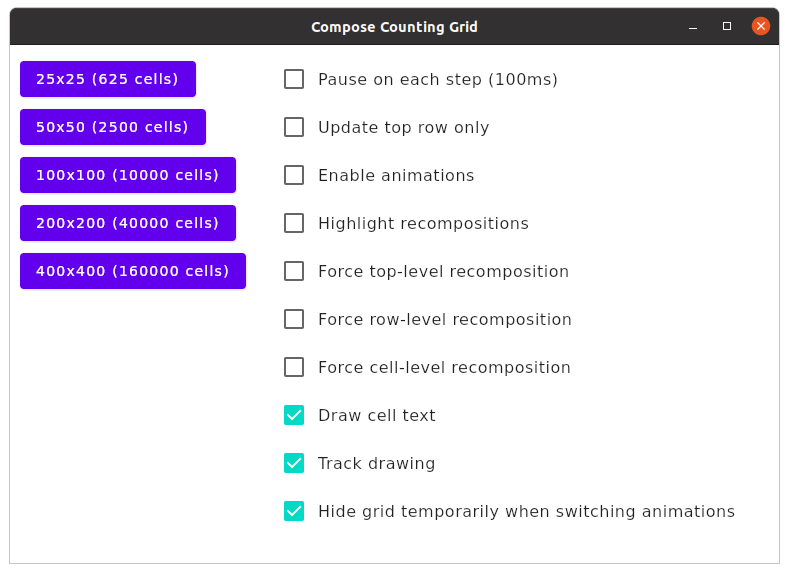
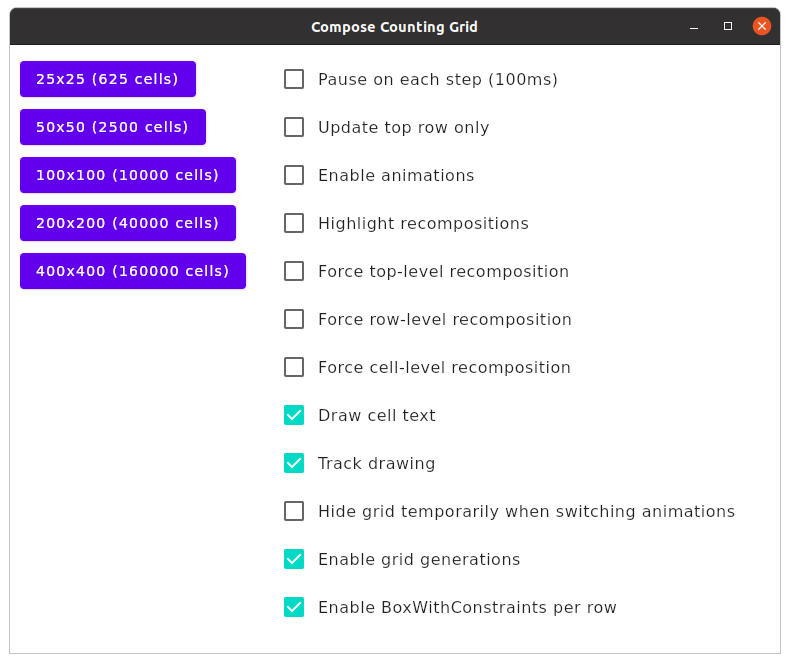
Add options to speed up animation switching, update timing results
New options:
* Enable grid generations
* Enable BoxWithConstraints per row

diff --git a/src/commonMain/kotlin/Views.kt b/src/commonMain/kotlin/Views.kt
@@ -6,6 +6,7 @@ import androidx.compose.animation.with
 import androidx.compose.foundation.border
 import androidx.compose.foundation.layout.Arrangement
 import androidx.compose.foundation.layout.Box
+import androidx.compose.foundation.layout.BoxWithConstraints
 import androidx.compose.foundation.layout.Column
 import androidx.compose.foundation.layout.Row
 import androidx.compose.foundation.layout.Spacer
@@ -20,6 +21,7 @@ import androidx.compose.runtime.LaunchedEffect
 import androidx.compose.runtime.MutableState
 import androidx.compose.runtime.State
 import androidx.compose.runtime.getValue
+import androidx.compose.runtime.key
 import androidx.compose.runtime.mutableStateOf
 import androidx.compose.runtime.remember
 import androidx.compose.runtime.rememberCoroutineScope
@@ -109,12 +111,14 @@ private fun GridScene(selectedGrid: MutableState<GridModel?>) {
         )
 
         if (showGrid) {
-            Grid(
-                grid,
-                topLevelRecompositionTrigger,
-                rowLevelRecompositionTrigger,
-                cellLevelRecompositionTrigger
-            )
+            key(Configuration.gridGenerationId) {
+                Grid(
+                    grid,
+                    topLevelRecompositionTrigger,
+                    rowLevelRecompositionTrigger,
+                    cellLevelRecompositionTrigger
+                )
+            }
         }
     }
 }
@@ -191,14 +195,27 @@ private fun Grid(
     Box(Modifier.recomposeHighlighter().border(1.dp, color = Color.LightGray)) {
         Column {
             for (row in grid.rows) {
-                Row(modifier = Modifier.recomposeHighlighter()) {
-                    sinkHole(rowLevelRecompositionTrigger.value)
-                    for (cell in row.cells) {
-                        Cell(cell, cellLevelRecompositionTrigger)
+                ConditionalBoxWithConstraints {
+                    Row(modifier = Modifier.recomposeHighlighter()) {
+                        sinkHole(rowLevelRecompositionTrigger.value)
+                        for (cell in row.cells) {
+                            Cell(cell, cellLevelRecompositionTrigger)
+                        }
                     }
                 }
             }
         }
+    }
+}
+
+@Composable
+private fun ConditionalBoxWithConstraints(content: @Composable () -> Unit) {
+    if (Configuration.boxWithConstraintsPerRowEnabled.value) {
+        BoxWithConstraints {
+            content()
+        }
+    } else {
+        content()
     }
 }
 

diff --git a/src/commonMain/kotlin/Configuration.kt b/src/commonMain/kotlin/Configuration.kt
@@ -1,4 +1,6 @@
+import androidx.compose.runtime.getValue
 import androidx.compose.runtime.mutableStateOf
+import androidx.compose.runtime.setValue
 
 object Configuration {
     class Element(
@@ -19,9 +21,17 @@ object Configuration {
         }
     }
 
+    var gridGenerationId by mutableStateOf(0)
+
     val pauseOnEachStep = Element("Pause on each step (100ms)", false)
     val updateTopRowOnlyEnabled = Element("Update top row only", false)
-    val animationsEnabled = Element("Enable animations", false)
+    private val gridGenerationsEnabled = Element("Enable grid generations", true)
+    val animationsEnabled = Element("Enable animations", false) { element, newState ->
+        logAction(element, newState)
+        if (gridGenerationsEnabled.value) {
+            gridGenerationId++
+        }
+    }
     val recomposeHighlightingEnabled = Element("Highlight recompositions", false)
     val topLevelRecompositionForced = Element("Force top-level recomposition", false)
     val rowLevelRecompositionForced = Element("Force row-level recomposition", false)
@@ -31,7 +41,8 @@ object Configuration {
         logAction(element, newState)
         drawSeries = if (newState) DrawSeries() else null
     }
-    val gridHidingEnabled = Element("Hide grid temporarily when switching animations", true)
+    val gridHidingEnabled = Element("Hide grid temporarily when switching animations", false)
+    val boxWithConstraintsPerRowEnabled = Element("Enable BoxWithConstraints per row", true)
 
     val elements = listOf(
         pauseOnEachStep,
@@ -43,7 +54,9 @@ object Configuration {
         cellLevelRecompositionForced,
         cellTextDrawingEnabled,
         trackDrawingEnabled,
-        gridHidingEnabled
+        gridHidingEnabled,
+        gridGenerationsEnabled,
+        boxWithConstraintsPerRowEnabled
     )
 
     private fun logAction(element: Element, newState: Boolean) {

diff --git a/docs/SwitchingAnimationVariants.md b/docs/SwitchingAnimationVariants.md
@@ -1,48 +1,19 @@
 ### Switching between grids with and without animations enabled
 
-#### (A) Create 50x50 (2500 cells) grid by selecting it in the initial window
+#### Timing Results
 
-```
-2022-09-10T21:47:31.616890Z – Grid -> null
-2022-09-10T21:47:33.607908Z – Enable animations -> OFF
-2022-09-10T21:47:39.865347Z – Grid -> 50x50 (2500 cells)
-2022-09-10T21:47:41.031984Z – 5000 cells drawn in 333.62ms from 2022-09-10T21:47:39.685506Z to 2022-09-10T21:47:40.019126Z
-2022-09-10T21:47:49.491669Z – Grid -> null
-2022-09-10T21:47:53.619966Z – Enable animations -> ON 
-2022-09-10T21:47:57.813194Z – Grid -> 50x50 (2500 cells)
-2022-09-10T21:48:01.281118Z – 5000 cells drawn in 2.793244s from 2022-09-10T21:47:57.453426Z to 2022-09-10T21:48:00.246670Z
-```
+Duration of cell drawing operations from switching _Enable animations_ until the next idle period of 1 second or more.
 
-#### (B) Switch animations on 50x50 (2500 cells) grid, hiding the grid temporarily
+| Enable grid generations | BoxWithConstraints per row | Hide grid temporarily | Animations -> ON | Animations -> OFF |
+|:-----------------------:|:--------------------------:|:---------------------:|-----------------:|------------------:|
+|                         |                            |                       |           19.1 s |            10.4 s |
+|            ✅            |                            |                       |            4.5 s |             1.8 s |
+|                         |                            |           ✅           |            3.7 s |             1.3 s |
+|            ✅            |                            |           ✅           |            3.7 s |             1.3 s |
+|                         |             ✅              |                       |            2.3 s |             1.7 s |
+|            ✅            |             ✅              |                       |            2.3 s |             1.6 s |
 
-```
-2022-09-10T21:48:37.975564Z – Enable animations -> OFF
-2022-09-10T21:48:40.319497Z – 37500 cells drawn in 1.369423s from 2022-09-10T21:48:37.938119Z to 2022-09-10T21:48:39.307542Z
-2022-09-10T21:48:44.573528Z – Enable animations -> ON 
-2022-09-10T21:48:49.491237Z – 7500 cells drawn in 3.967818s from 2022-09-10T21:48:44.498855Z to 2022-09-10T21:48:48.466673Z
-```
-
-#### (C) Switch animations on 50x50 (2500 cells) grid, without hiding the grid temporarily
-
-```
-2022-09-10T21:49:39.871883Z – Enable animations -> OFF
-2022-09-10T21:49:51.419328Z – 37500 cells drawn in 10.536078s from 2022-09-10T21:49:39.831093Z to 2022-09-10T21:49:50.367171Z
-2022-09-10T21:49:55.901524Z – Enable animations -> ON 
-2022-09-10T21:50:14.673802Z – 32500 cells drawn in 17.810506s from 2022-09-10T21:49:55.810575Z to 2022-09-10T21:50:13.621081Z
-```
-
-#### Profiling
-
-* When switching animations while _not_ hiding the `Grid`, the majority of time is spent in slot table operations:
-    * androidx.compose.runtime.CompositionImpl.lambda 'fastForEach' in applyChangesInLocked()
-        * androidx.compose.runtime.ComposerImpl$recordInsert$2.invoke(Object, Object, Object)
-            * androidx.compose.runtime.ComposerImpl$recordInsert$2.invoke(Applier, SlotWriter, RememberManager)
-                * androidx.compose.runtime.SlotWriter.moveFrom(SlotTable, int)
-        * androidx.compose.runtime.ComposerKt$removeCurrentGroupInstance$1.invoke(Object, Object, Object)
-            * androidx.compose.runtime.ComposerKt$removeCurrentGroupInstance$1.invoke(Applier, SlotWriter,
-              RememberManager)
-                * androidx.compose.runtime.ComposerKt.removeCurrentGroup(SlotWriter, RememberManager)
-
+> NOTE: In each case, measurements were taken from the last switching activity.
 
 #### Full log
 
@@ -56,59 +27,112 @@ These actions cause drawing operations:
 
 > Because the entire UI is drawn on each frame, subtle animations, hover indicators, can cause thousands of cell drawing operations. Ripple animations cause a multiple of that.
 
-This is the complete log file, from which the above data has been extracted:
+These are the complete log files, from which the above data has been extracted:
 
 ```
-2022-09-10T21:46:14.983788Z – Pause on each step (100ms) -> OFF
-2022-09-10T21:46:14.987241Z – Update top row only -> OFF
-2022-09-10T21:46:14.987344Z – Enable animations -> OFF
-2022-09-10T21:46:14.987513Z – Highlight recompositions -> OFF
-2022-09-10T21:46:14.987607Z – Force top-level recomposition -> OFF
-2022-09-10T21:46:14.987709Z – Force row-level recomposition -> OFF
-2022-09-10T21:46:14.987797Z – Force cell-level recomposition -> OFF
-2022-09-10T21:46:14.987934Z – Draw cell text -> ON 
-2022-09-10T21:46:14.988339Z – Track drawing -> ON 
-2022-09-10T21:46:14.991622Z – Hide grid temporarily when switching animations -> ON 
-2022-09-10T21:46:15.271789Z – Grid -> null
-2022-09-10T21:46:45.155424Z – Grid -> 50x50 (2500 cells)
-2022-09-10T21:46:46.369431Z – 5000 cells drawn in 533.05ms from 2022-09-10T21:46:44.813553Z to 2022-09-10T21:46:45.346603Z
-2022-09-10T21:46:52.864318Z – 12500 cells drawn in 138.692ms from 2022-09-10T21:46:51.700311Z to 2022-09-10T21:46:51.839003Z
-2022-09-10T21:46:58.786203Z – Grid -> null
-2022-09-10T21:46:59.590604Z – 2500 cells drawn in 15.476ms from 2022-09-10T21:46:58.497732Z to 2022-09-10T21:46:58.513208Z
-2022-09-10T21:47:06.144643Z – Enable animations -> ON 
-2022-09-10T21:47:13.033987Z – Grid -> 50x50 (2500 cells)
-2022-09-10T21:47:16.817249Z – 5000 cells drawn in 3.096053s from 2022-09-10T21:47:12.664521Z to 2022-09-10T21:47:15.760574Z
-2022-09-10T21:47:31.616890Z – Grid -> null
-2022-09-10T21:47:31.918087Z – 12500 cells drawn in 992.977ms from 2022-09-10T21:47:29.891993Z to 2022-09-10T21:47:30.884970Z
-2022-09-10T21:47:33.607908Z – Enable animations -> OFF
-2022-09-10T21:47:39.865347Z – Grid -> 50x50 (2500 cells)
-2022-09-10T21:47:41.031984Z – 5000 cells drawn in 333.62ms from 2022-09-10T21:47:39.685506Z to 2022-09-10T21:47:40.019126Z
-2022-09-10T21:47:46.888147Z – 15000 cells drawn in 132.002ms from 2022-09-10T21:47:45.741427Z to 2022-09-10T21:47:45.873429Z
-2022-09-10T21:47:49.491669Z – Grid -> null
-2022-09-10T21:47:50.293995Z – 2500 cells drawn in 20.797ms from 2022-09-10T21:47:49.241834Z to 2022-09-10T21:47:49.262631Z
-2022-09-10T21:47:53.619966Z – Enable animations -> ON 
-2022-09-10T21:47:57.813194Z – Grid -> 50x50 (2500 cells)
-2022-09-10T21:48:01.281118Z – 5000 cells drawn in 2.793244s from 2022-09-10T21:47:57.453426Z to 2022-09-10T21:48:00.246670Z
-2022-09-10T21:48:14.106020Z – 42500 cells drawn in 1.957566s from 2022-09-10T21:48:11.072607Z to 2022-09-10T21:48:13.030173Z
-2022-09-10T21:48:19.572855Z – 2500 cells drawn in 12.409ms from 2022-09-10T21:48:18.537180Z to 2022-09-10T21:48:18.549589Z
-2022-09-10T21:48:19.720524Z – Enable animations -> OFF
-2022-09-10T21:48:22.093751Z – 7500 cells drawn in 1.408573s from 2022-09-10T21:48:19.673952Z to 2022-09-10T21:48:21.082525Z
-2022-09-10T21:48:29.746544Z – Enable animations -> ON 
-2022-09-10T21:48:34.910817Z – 27500 cells drawn in 4.182232s from 2022-09-10T21:48:29.691941Z to 2022-09-10T21:48:33.874173Z
-2022-09-10T21:48:37.975564Z – Enable animations -> OFF
-2022-09-10T21:48:40.319497Z – 37500 cells drawn in 1.369423s from 2022-09-10T21:48:37.938119Z to 2022-09-10T21:48:39.307542Z
-2022-09-10T21:48:44.573528Z – Enable animations -> ON 
-2022-09-10T21:48:49.491237Z – 7500 cells drawn in 3.967818s from 2022-09-10T21:48:44.498855Z to 2022-09-10T21:48:48.466673Z
-2022-09-10T21:48:54.142785Z – 5000 cells drawn in 59.681ms from 2022-09-10T21:48:53.038091Z to 2022-09-10T21:48:53.097772Z
-2022-09-10T21:48:55.179124Z – Hide grid temporarily when switching animations -> OFF
-2022-09-10T21:48:57.413539Z – 42500 cells drawn in 1.877356s from 2022-09-10T21:48:54.453755Z to 2022-09-10T21:48:56.331111Z
-2022-09-10T21:49:03.842115Z – Enable animations -> OFF
-2022-09-10T21:49:15.113693Z – 40000 cells drawn in 10.263847s from 2022-09-10T21:49:03.800329Z to 2022-09-10T21:49:14.064176Z
-2022-09-10T21:49:19.170576Z – Enable animations -> ON 
-2022-09-10T21:49:37.700329Z – 30000 cells drawn in 17.576870s from 2022-09-10T21:49:19.080698Z to 2022-09-10T21:49:36.657568Z
-2022-09-10T21:49:39.871883Z – Enable animations -> OFF
-2022-09-10T21:49:51.419328Z – 37500 cells drawn in 10.536078s from 2022-09-10T21:49:39.831093Z to 2022-09-10T21:49:50.367171Z
-2022-09-10T21:49:55.901524Z – Enable animations -> ON 
-2022-09-10T21:50:14.673802Z – 32500 cells drawn in 17.810506s from 2022-09-10T21:49:55.810575Z to 2022-09-10T21:50:13.621081Z
-2022-09-10T21:50:20.715283Z – 5000 cells drawn in 59.997ms from 2022-09-10T21:50:19.627001Z to 2022-09-10T21:50:19.686998Z
+2022-09-16T14:45:47.472893Z – Pause on each step (100ms) -> OFF
+2022-09-16T14:45:47.477023Z – Update top row only -> OFF
+2022-09-16T14:45:47.477207Z – Enable grid generations -> ON 
+2022-09-16T14:45:47.477598Z – Enable animations -> OFF
+2022-09-16T14:45:47.478315Z – Highlight recompositions -> OFF
+2022-09-16T14:45:47.478439Z – Force top-level recomposition -> OFF
+2022-09-16T14:45:47.478546Z – Force row-level recomposition -> OFF
+2022-09-16T14:45:47.478662Z – Force cell-level recomposition -> OFF
+2022-09-16T14:45:47.478762Z – Draw cell text -> ON 
+2022-09-16T14:45:47.479061Z – Track drawing -> ON 
+2022-09-16T14:45:47.483120Z – Hide grid temporarily when switching animations -> OFF
+2022-09-16T14:45:47.909434Z – Grid -> null
+2022-09-16T14:45:53.868996Z – Grid -> 50x50 (2500 cells)
+2022-09-16T14:45:56.739808Z – 85000 cells drawn in 2.113283s from 2022-09-16T14:45:53.589204Z to 2022-09-16T14:45:55.702487Z
+2022-09-16T14:46:02.368059Z – 100000 cells drawn in 3.187074s from 2022-09-16T14:45:58.080794Z to 2022-09-16T14:46:01.267868Z
+2022-09-16T14:46:05.839204Z – 12500 cells drawn in 439.459ms from 2022-09-16T14:46:04.306279Z to 2022-09-16T14:46:04.745738Z
+2022-09-16T14:46:09.012740Z – Enable animations -> ON 
+2022-09-16T14:46:14.449763Z – 30000 cells drawn in 4.458654s from 2022-09-16T14:46:08.958880Z to 2022-09-16T14:46:13.417534Z
+2022-09-16T14:46:16.456554Z – Enable animations -> OFF
+2022-09-16T14:46:19.305542Z – 40000 cells drawn in 1.811921s from 2022-09-16T14:46:16.418983Z to 2022-09-16T14:46:18.230904Z
+2022-09-16T14:46:22.632043Z – Enable animations -> ON 
+2022-09-16T14:46:28.197912Z – 30000 cells drawn in 4.583876s from 2022-09-16T14:46:22.570859Z to 2022-09-16T14:46:27.154735Z
+2022-09-16T14:46:31.014203Z – Enable animations -> OFF
+2022-09-16T14:46:33.804813Z – 40000 cells drawn in 1.756438s from 2022-09-16T14:46:30.974240Z to 2022-09-16T14:46:32.730678Z
+2022-09-16T14:46:36.614592Z – Enable animations -> ON 
+2022-09-16T14:46:42.120787Z – 27500 cells drawn in 4.512819s from 2022-09-16T14:46:36.579794Z to 2022-09-16T14:46:41.092613Z
+2022-09-16T14:46:44.585035Z – Enable animations -> OFF
+2022-09-16T14:46:47.409628Z – 40000 cells drawn in 1.811537s from 2022-09-16T14:46:44.546173Z to 2022-09-16T14:46:46.357710Z
+2022-09-16T14:46:51.054986Z – Hide grid temporarily when switching animations -> ON 
+2022-09-16T14:46:52.500963Z – 57500 cells drawn in 1.921731s from 2022-09-16T14:46:49.555397Z to 2022-09-16T14:46:51.477128Z
+2022-09-16T14:46:53.611027Z – 5000 cells drawn in 34.131ms from 2022-09-16T14:46:52.502611Z to 2022-09-16T14:46:52.536742Z
+2022-09-16T14:46:57.480761Z – Enable animations -> ON 
+2022-09-16T14:47:02.572007Z – 27500 cells drawn in 4.037464s from 2022-09-16T14:46:57.446579Z to 2022-09-16T14:47:01.484043Z
+2022-09-16T14:47:05.828434Z – Enable animations -> OFF
+2022-09-16T14:47:08.243008Z – 37500 cells drawn in 1.360658s from 2022-09-16T14:47:05.789544Z to 2022-09-16T14:47:07.150202Z
+2022-09-16T14:47:12.062794Z – Enable animations -> ON 
+2022-09-16T14:47:16.746578Z – 10000 cells drawn in 3.700477s from 2022-09-16T14:47:12.008265Z to 2022-09-16T14:47:15.708742Z
+2022-09-16T14:47:19.394269Z – Enable animations -> OFF
+2022-09-16T14:47:21.737417Z – 37500 cells drawn in 1.288724s from 2022-09-16T14:47:19.354702Z to 2022-09-16T14:47:20.643426Z
+2022-09-16T14:47:26.720263Z – Enable grid generations -> OFF
+2022-09-16T14:47:29.667900Z – 72500 cells drawn in 3.245322s from 2022-09-16T14:47:25.402660Z to 2022-09-16T14:47:28.647982Z
+2022-09-16T14:47:35.341447Z – Enable animations -> ON 
+2022-09-16T14:47:39.936828Z – 10000 cells drawn in 3.640927s from 2022-09-16T14:47:35.281024Z to 2022-09-16T14:47:38.921951Z
+2022-09-16T14:47:46.017295Z – Enable animations -> OFF
+2022-09-16T14:47:48.360795Z – 7500 cells drawn in 1.376860s from 2022-09-16T14:47:45.971044Z to 2022-09-16T14:47:47.347904Z
+2022-09-16T14:47:59.072784Z – Enable animations -> ON 
+2022-09-16T14:48:03.706006Z – 20000 cells drawn in 3.664890s from 2022-09-16T14:47:58.994750Z to 2022-09-16T14:48:02.659640Z
+2022-09-16T14:48:14.338749Z – Enable animations -> OFF
+2022-09-16T14:48:16.604596Z – 7500 cells drawn in 1.305791s from 2022-09-16T14:48:14.286393Z to 2022-09-16T14:48:15.592184Z
+2022-09-16T14:48:19.436782Z – 2500 cells drawn in 10.904ms from 2022-09-16T14:48:18.399825Z to 2022-09-16T14:48:18.410729Z
+2022-09-16T14:48:20.685016Z – Hide grid temporarily when switching animations -> OFF
+2022-09-16T14:48:23.165904Z – 72500 cells drawn in 2.404207s from 2022-09-16T14:48:19.666759Z to 2022-09-16T14:48:22.070966Z
+2022-09-16T14:48:26.570760Z – Enable animations -> ON 
+2022-09-16T14:48:46.600508Z – 30000 cells drawn in 19.073024s from 2022-09-16T14:48:26.499497Z to 2022-09-16T14:48:45.572521Z
+2022-09-16T14:48:51.547203Z – Enable animations -> OFF
+2022-09-16T14:49:03.007199Z – 37500 cells drawn in 10.433303s from 2022-09-16T14:48:51.503992Z to 2022-09-16T14:49:01.937295Z
+2022-09-16T14:49:05.938542Z – Enable animations -> ON 
+2022-09-16T14:49:26.041411Z – 30000 cells drawn in 19.114718s from 2022-09-16T14:49:05.878933Z to 2022-09-16T14:49:24.993651Z
+2022-09-16T14:49:27.506790Z – Enable animations -> OFF
+2022-09-16T14:49:38.882568Z – 40000 cells drawn in 10.380137s from 2022-09-16T14:49:27.461871Z to 2022-09-16T14:49:37.842008Z
+2022-09-16T14:49:41.804038Z – 2500 cells drawn in 10.977ms from 2022-09-16T14:49:40.732508Z to 2022-09-16T14:49:40.743485Z
+```
+
+```
+2022-09-16T20:30:33.096808Z – Pause on each step (100ms) -> OFF
+2022-09-16T20:30:33.102853Z – Update top row only -> OFF
+2022-09-16T20:30:33.103007Z – Enable grid generations -> ON 
+2022-09-16T20:30:33.103624Z – Enable animations -> OFF
+2022-09-16T20:30:33.104915Z – Highlight recompositions -> OFF
+2022-09-16T20:30:33.105064Z – Force top-level recomposition -> OFF
+2022-09-16T20:30:33.105229Z – Force row-level recomposition -> OFF
+2022-09-16T20:30:33.105360Z – Force cell-level recomposition -> OFF
+2022-09-16T20:30:33.105528Z – Draw cell text -> ON 
+2022-09-16T20:30:33.106031Z – Track drawing -> ON 
+2022-09-16T20:30:33.111206Z – Hide grid temporarily when switching animations -> OFF
+2022-09-16T20:30:33.111405Z – Enable BoxWithConstraints per row -> ON 
+2022-09-16T20:30:33.431395Z – Grid -> null
+2022-09-16T20:30:39.280197Z – Grid -> 50x50 (2500 cells)
+2022-09-16T20:30:42.440878Z – 70000 cells drawn in 2.566414s from 2022-09-16T20:30:38.831075Z to 2022-09-16T20:30:41.397489Z
+2022-09-16T20:30:43.905899Z – 5000 cells drawn in 146.622ms from 2022-09-16T20:30:42.706446Z to 2022-09-16T20:30:42.853068Z
+2022-09-16T20:30:47.736127Z – 5000 cells drawn in 38.512ms from 2022-09-16T20:30:46.642317Z to 2022-09-16T20:30:46.680829Z
+2022-09-16T20:30:51.865189Z – Enable animations -> ON 
+2022-09-16T20:30:56.257282Z – 30000 cells drawn in 3.385817s from 2022-09-16T20:30:51.801650Z to 2022-09-16T20:30:55.187467Z
+2022-09-16T20:30:58.027452Z – Enable animations -> OFF
+2022-09-16T20:31:00.861822Z – 40000 cells drawn in 1.787853s from 2022-09-16T20:30:57.981453Z to 2022-09-16T20:30:59.769306Z
+2022-09-16T20:31:04.380768Z – Enable animations -> ON 
+2022-09-16T20:31:08.003942Z – 27500 cells drawn in 2.589024s from 2022-09-16T20:31:04.344746Z to 2022-09-16T20:31:06.933770Z
+2022-09-16T20:31:10.589958Z – Enable animations -> OFF
+2022-09-16T20:31:13.257392Z – 37500 cells drawn in 1.620087s from 2022-09-16T20:31:10.544630Z to 2022-09-16T20:31:12.164717Z
+2022-09-16T20:31:16.887130Z – Enable animations -> ON 
+2022-09-16T20:31:20.185150Z – 30000 cells drawn in 2.322666s from 2022-09-16T20:31:16.849974Z to 2022-09-16T20:31:19.172640Z
+2022-09-16T20:31:23.023718Z – Enable animations -> OFF
+2022-09-16T20:31:25.693851Z – 37500 cells drawn in 1.624419s from 2022-09-16T20:31:22.978021Z to 2022-09-16T20:31:24.602440Z
+2022-09-16T20:31:32.673169Z – Enable grid generations -> OFF
+2022-09-16T20:31:34.241693Z – 65000 cells drawn in 1.981797s from 2022-09-16T20:31:31.215742Z to 2022-09-16T20:31:33.197539Z
+2022-09-16T20:31:35.448665Z – 2500 cells drawn in 19.924ms from 2022-09-16T20:31:34.386143Z to 2022-09-16T20:31:34.406067Z
+2022-09-16T20:31:38.023828Z – Enable animations -> ON 
+2022-09-16T20:31:41.629577Z – 27500 cells drawn in 2.567896s from 2022-09-16T20:31:37.984630Z to 2022-09-16T20:31:40.552526Z
+2022-09-16T20:31:43.317156Z – Enable animations -> OFF
+2022-09-16T20:31:46.010440Z – 37500 cells drawn in 1.697336s from 2022-09-16T20:31:43.244736Z to 2022-09-16T20:31:44.942072Z
+2022-09-16T20:31:48.058349Z – Enable animations -> ON 
+2022-09-16T20:31:51.282466Z – 27500 cells drawn in 2.267995s from 2022-09-16T20:31:47.997990Z to 2022-09-16T20:31:50.265985Z
+2022-09-16T20:31:53.455908Z – Enable animations -> OFF
+2022-09-16T20:31:56.116861Z – 30000 cells drawn in 1.677276s from 2022-09-16T20:31:53.407931Z to 2022-09-16T20:31:55.085207Z
+2022-09-16T20:32:01.146693Z – 2500 cells drawn in 12.92ms from 2022-09-16T20:32:00.065087Z to 2022-09-16T20:32:00.078007Z
 ```

diff --git a/README.md b/README.md
@@ -58,7 +58,7 @@ Observations:
 * Grids with more cells scrolled out of view (applies to desktop only) are faster.
 * Top- or row-level layout and recomposition accounts for about 10% of total performance (try forcing top-level and/or row-level recompositions, check the profiler's flame graph). In these scenarios, redrawing dominates performance.
 * Cell-level recomposition is expensive. On desktop, it cuts the frame rate by 70% (25x25 grid).
-* Directly switching between grid variants with and without `AnimatedContent` animations (one per cell) is very expensive due to excessive slot table manipulations (see [detailed data](docs/SwitchingAnimationVariants.md)). This application provides an option to hide the grid temporarily when switching to speed this up, see comments in `GridScene` for details.
+* Directly switching between grid variants with and without `AnimatedContent` animations (one per cell) can be very expensive due to excessive slot table manipulations. This application provides several options to work around this. See [separate information for details](docs/SwitchingAnimationVariants.md).
 
 Conclusions:
 * Currently, it appears that the entire (window) canvas is redrawn on every frame. Once [JetBrains/skiko#53](https://github.com/JetBrains/skiko/issues/53) is fixed and only updated parts are redrawn, expect significant performance increases.
@@ -89,3 +89,10 @@ Conclusions:
 * Updated observations in README.
 * Added animation switching analysis in `docs/SwitchingAnimationVariants.md`.
 * Refactored GridScene to avoid unnecessary grid recompositions when controls update. 
+
+##### 2022-09-16
+
+* Added options to speed up animation switching:
+    * Enable grid generations
+    * Enable BoxWithConstraints per row
+* Updated timing results
